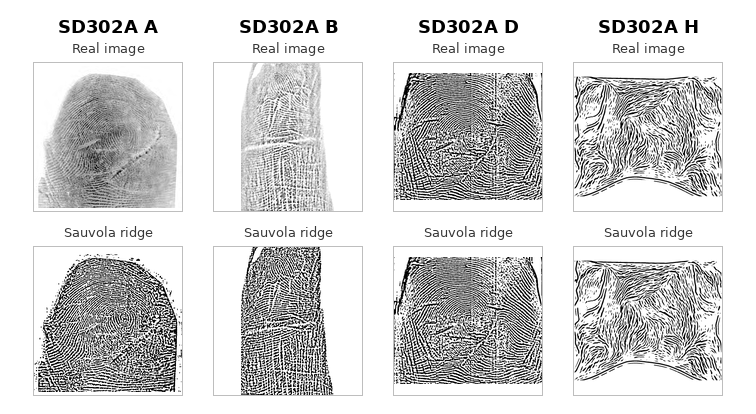
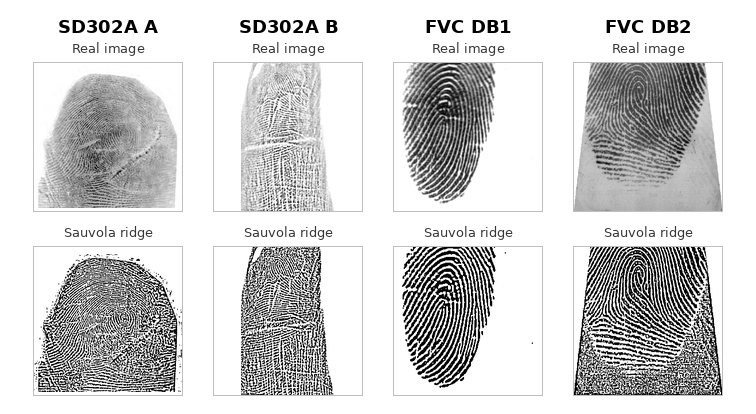
Replace ridge examples with FVC DB1 DB2

diff --git a/main.tex b/main.tex
@@ -364,7 +364,8 @@ the resulting binary map as the ridge condition $r$ for Stage 2.
     \includegraphics[width=0.88\linewidth]{figures/sd302a_sauvola_ridge_examples.png}
     \caption{Real SD302A rolled fingerprints and Sauvola ridge maps extracted
     with $w=11$, $R=128$, $k=0.007$, and a $2 \times 2$ morphological opening.
-    The examples are sampled from SD302A sensors A, B, D, and H on this VM.}
+    The examples are sampled from SD302A sensors A/B and FVC 2004 DB1/DB2 on
+    this VM.}
     \label{fig:sd302a_sauvola_examples}
 \end{figure}
 \FloatBarrier